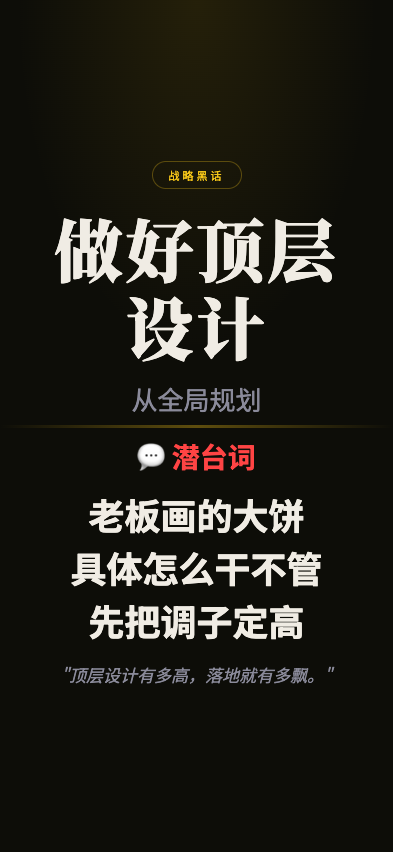
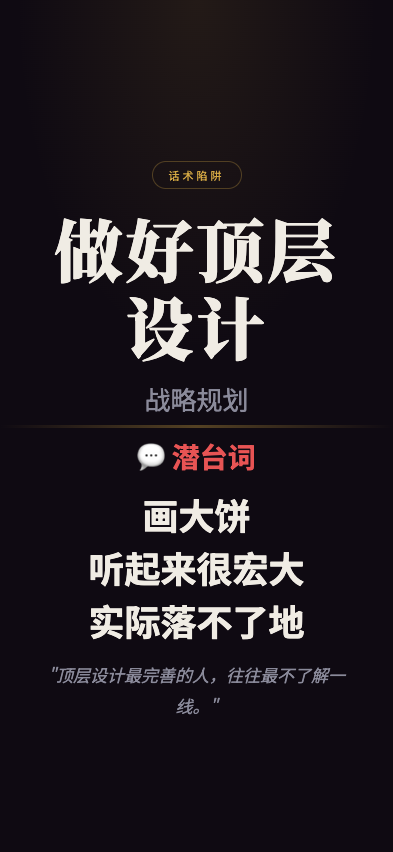
feat: 职场生存法则 screenshot - zuohaodingcengsheji

Changed region(s): [[0.1527, 0.5798, 0.855, 0.8545], [0.3359, 0.4577, 0.6718, 0.4883], [0.4275, 0.1831, 0.5802, 0.2136]]

diff --git a/wuliao-tools/tools/biz-speak/scenes/zuohaodingcengsheji.html b/wuliao-tools/tools/biz-speak/scenes/zuohaodingcengsheji.html
@@ -7,11 +7,11 @@
 <link href="https://fonts.googleapis.com/css2?family=Noto+Serif+SC:wght@400;700;900&family=Noto+Sans+SC:wght@300;400;700&display=swap" rel="stylesheet">
 <style>
   :root {
-    --bg: #0d0d08;
+    --bg: #0f0a12;
     --text: #f0ece4;
     --text-dim: #8a8a9a;
-    --gold: #f5c518;
-    --red: #ff4444;
+    --gold: #d4a843;
+    --red: #e85454;
   }
   * { margin:0; padding:0; box-sizing:border-box; }
   html, body { width:100%; height:100%; overflow:hidden; }
@@ -24,11 +24,11 @@
   }
   body::before {
     content:''; position:absolute; top:0; left:0; right:0; height:45%;
-    background:radial-gradient(ellipse at 50% 0%, rgba(245,197,24,0.1) 0%, transparent 65%);
+    background:radial-gradient(ellipse at 50% 0%, rgba(212,168,67,0.1) 0%, transparent 65%);
     pointer-events:none; z-index:0;
   }
   .top { flex:1; display:flex; flex-direction:column; align-items:center; justify-content:flex-end; padding:4px 28px 8px; position:relative; z-index:1; }
-  .tag { font-size:11px; letter-spacing:3px; color:var(--gold); border:1px solid rgba(245,197,24,0.3); padding:5px 16px; border-radius:50px; margin-bottom:20px; }
+  .tag { font-size:11px; letter-spacing:3px; color:var(--gold); border:1px solid rgba(212,168,67,0.3); padding:5px 16px; border-radius:50px; margin-bottom:20px; }
   .main-title { font-family:'Noto Serif SC'; font-size:68px; font-weight:900; text-align:center; line-height:1.15; letter-spacing:3px; min-width:0; overflow-wrap:break-word; max-width:92%; }
   .sub-title { font-size:26px; color:var(--text-dim); text-align:center; margin-top:14px; }
   .divider { width:100%; height:3px; background:linear-gradient(90deg,transparent,var(--gold),transparent); opacity:0.35; flex-shrink:0; position:relative; z-index:1; }
@@ -41,19 +41,19 @@
 </head>
 <body>
   <div class="top">
-    <div class="tag">战略黑话</div>
+    <div class="tag">话术陷阱</div>
     <div class="main-title">做好顶层设计</div>
-    <div class="sub-title">从全局规划</div>
+    <div class="sub-title">战略规划</div>
   </div>
   <div class="divider"></div>
   <div class="bottom">
     <div class="truth-label">💬 潜台词</div>
     <div class="truth-lines">
-      <div class="truth-line">老板画的大饼</div>
-      <div class="truth-line">具体怎么干不管</div>
-      <div class="truth-line">先把调子定高</div>
+      <div class="truth-line">画大饼</div>
+      <div class="truth-line">听起来很宏大</div>
+      <div class="truth-line">实际落不了地</div>
     </div>
-    <div class="quote">"顶层设计有多高，落地就有多飘。"</div>
+    <div class="quote">"顶层设计最完善的人，往往最不了解一线。"</div>
   </div>
 </body>
 </html>
